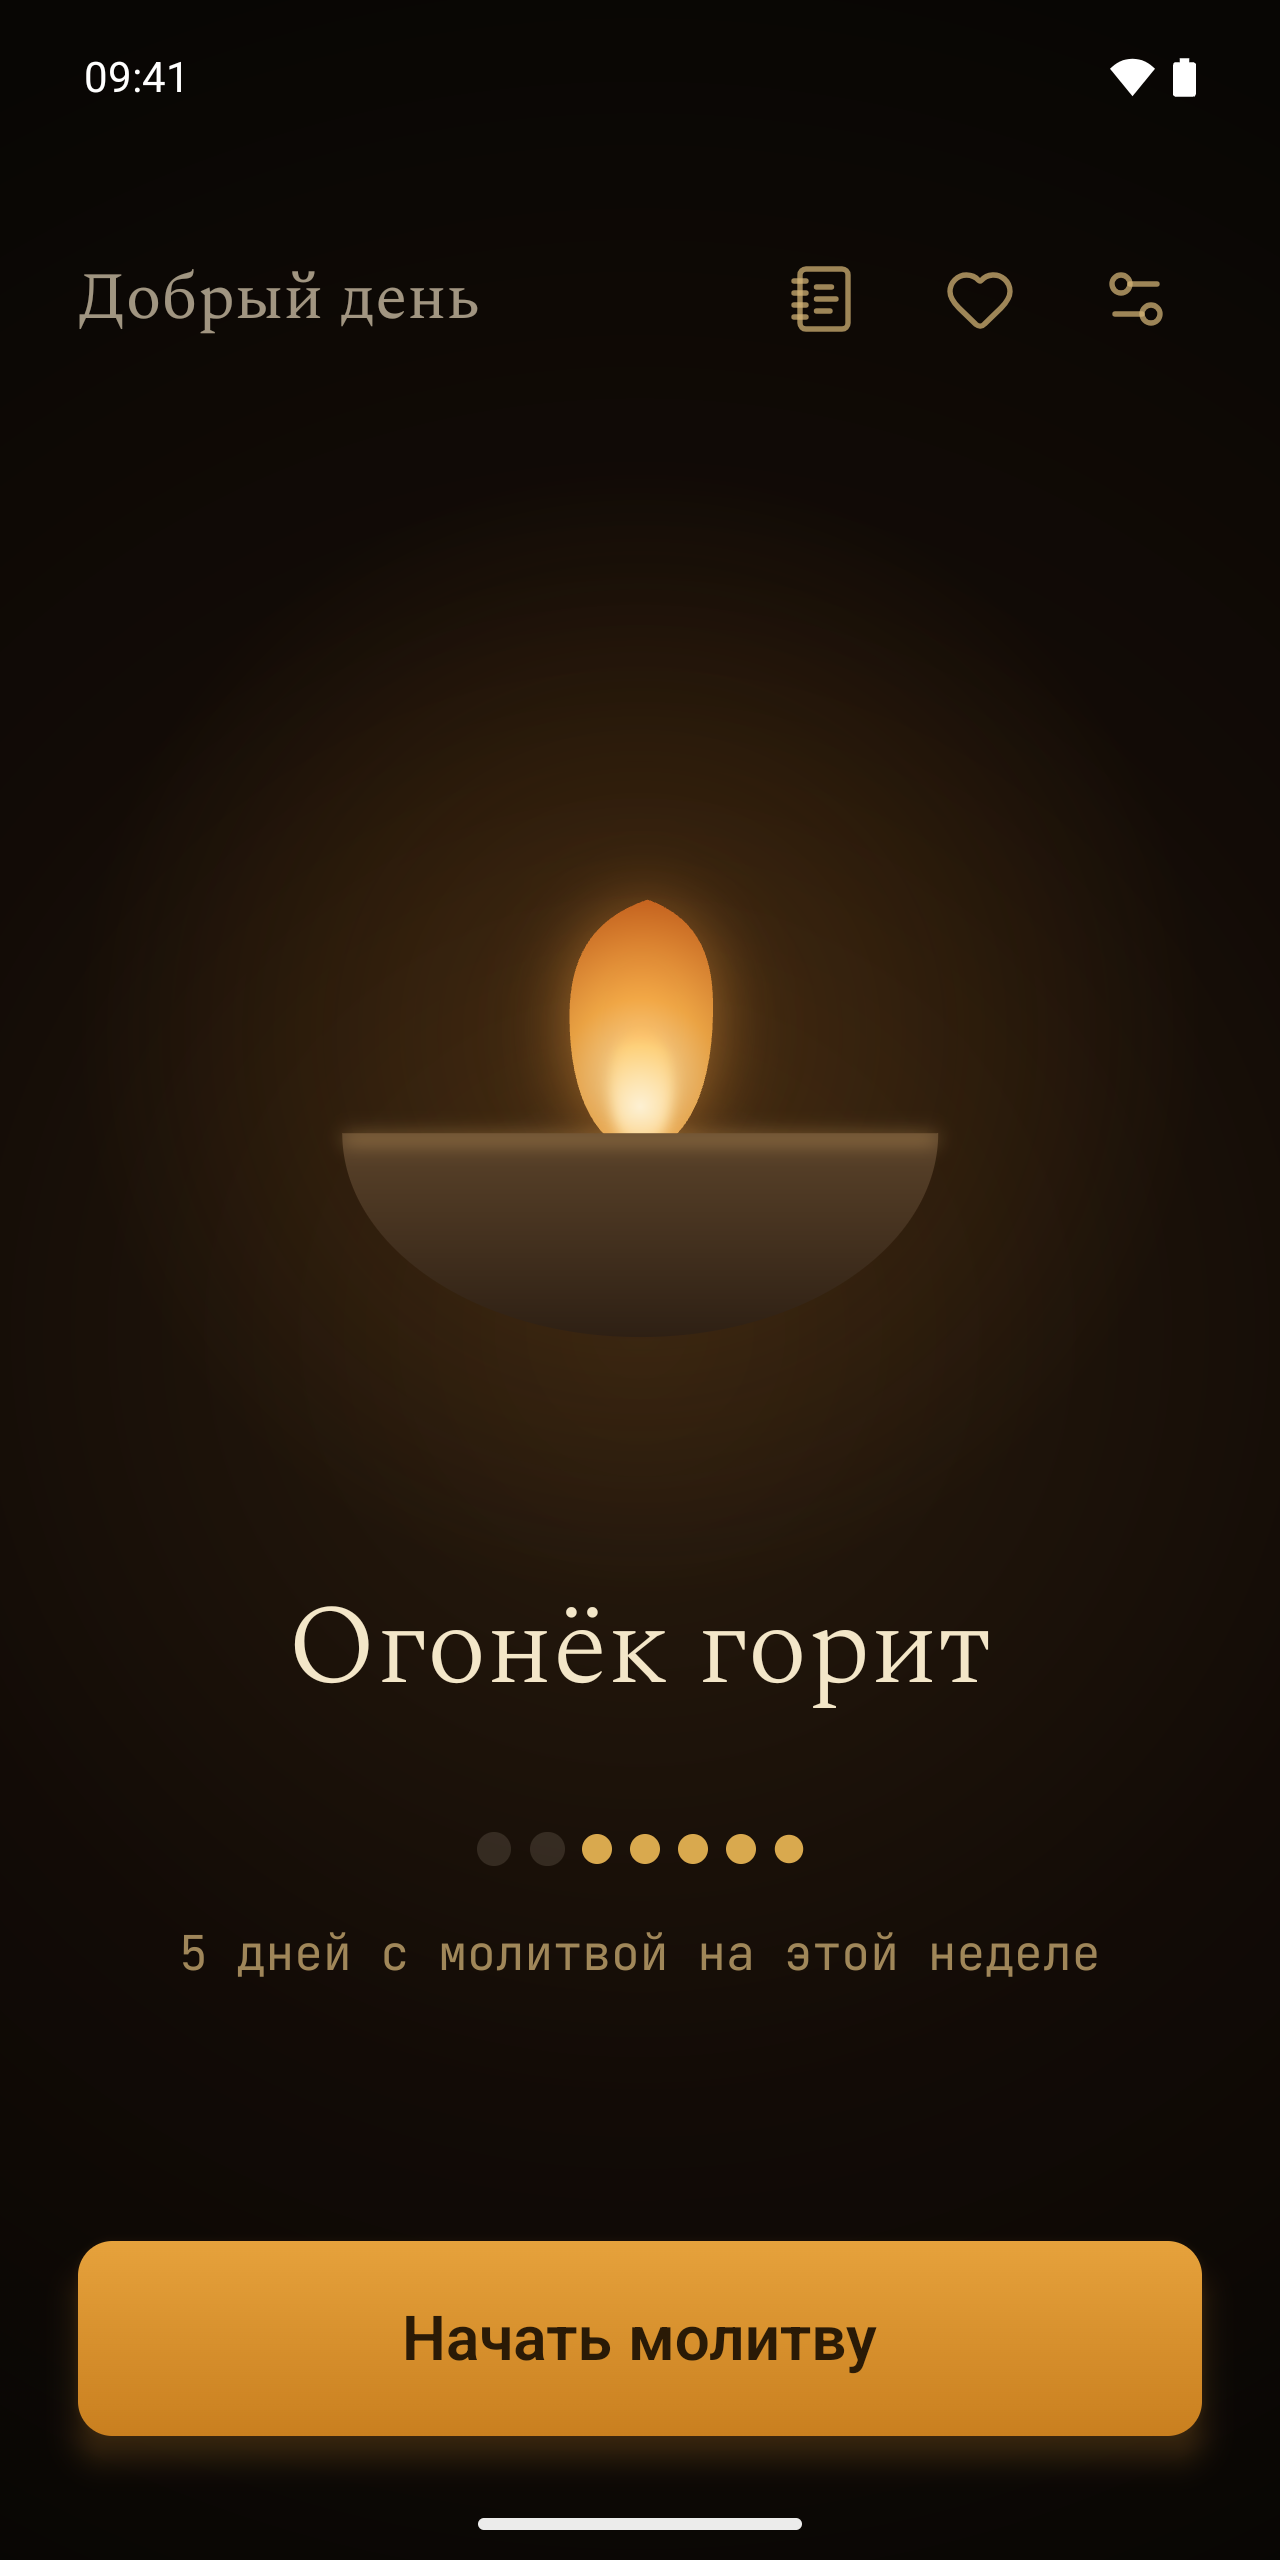
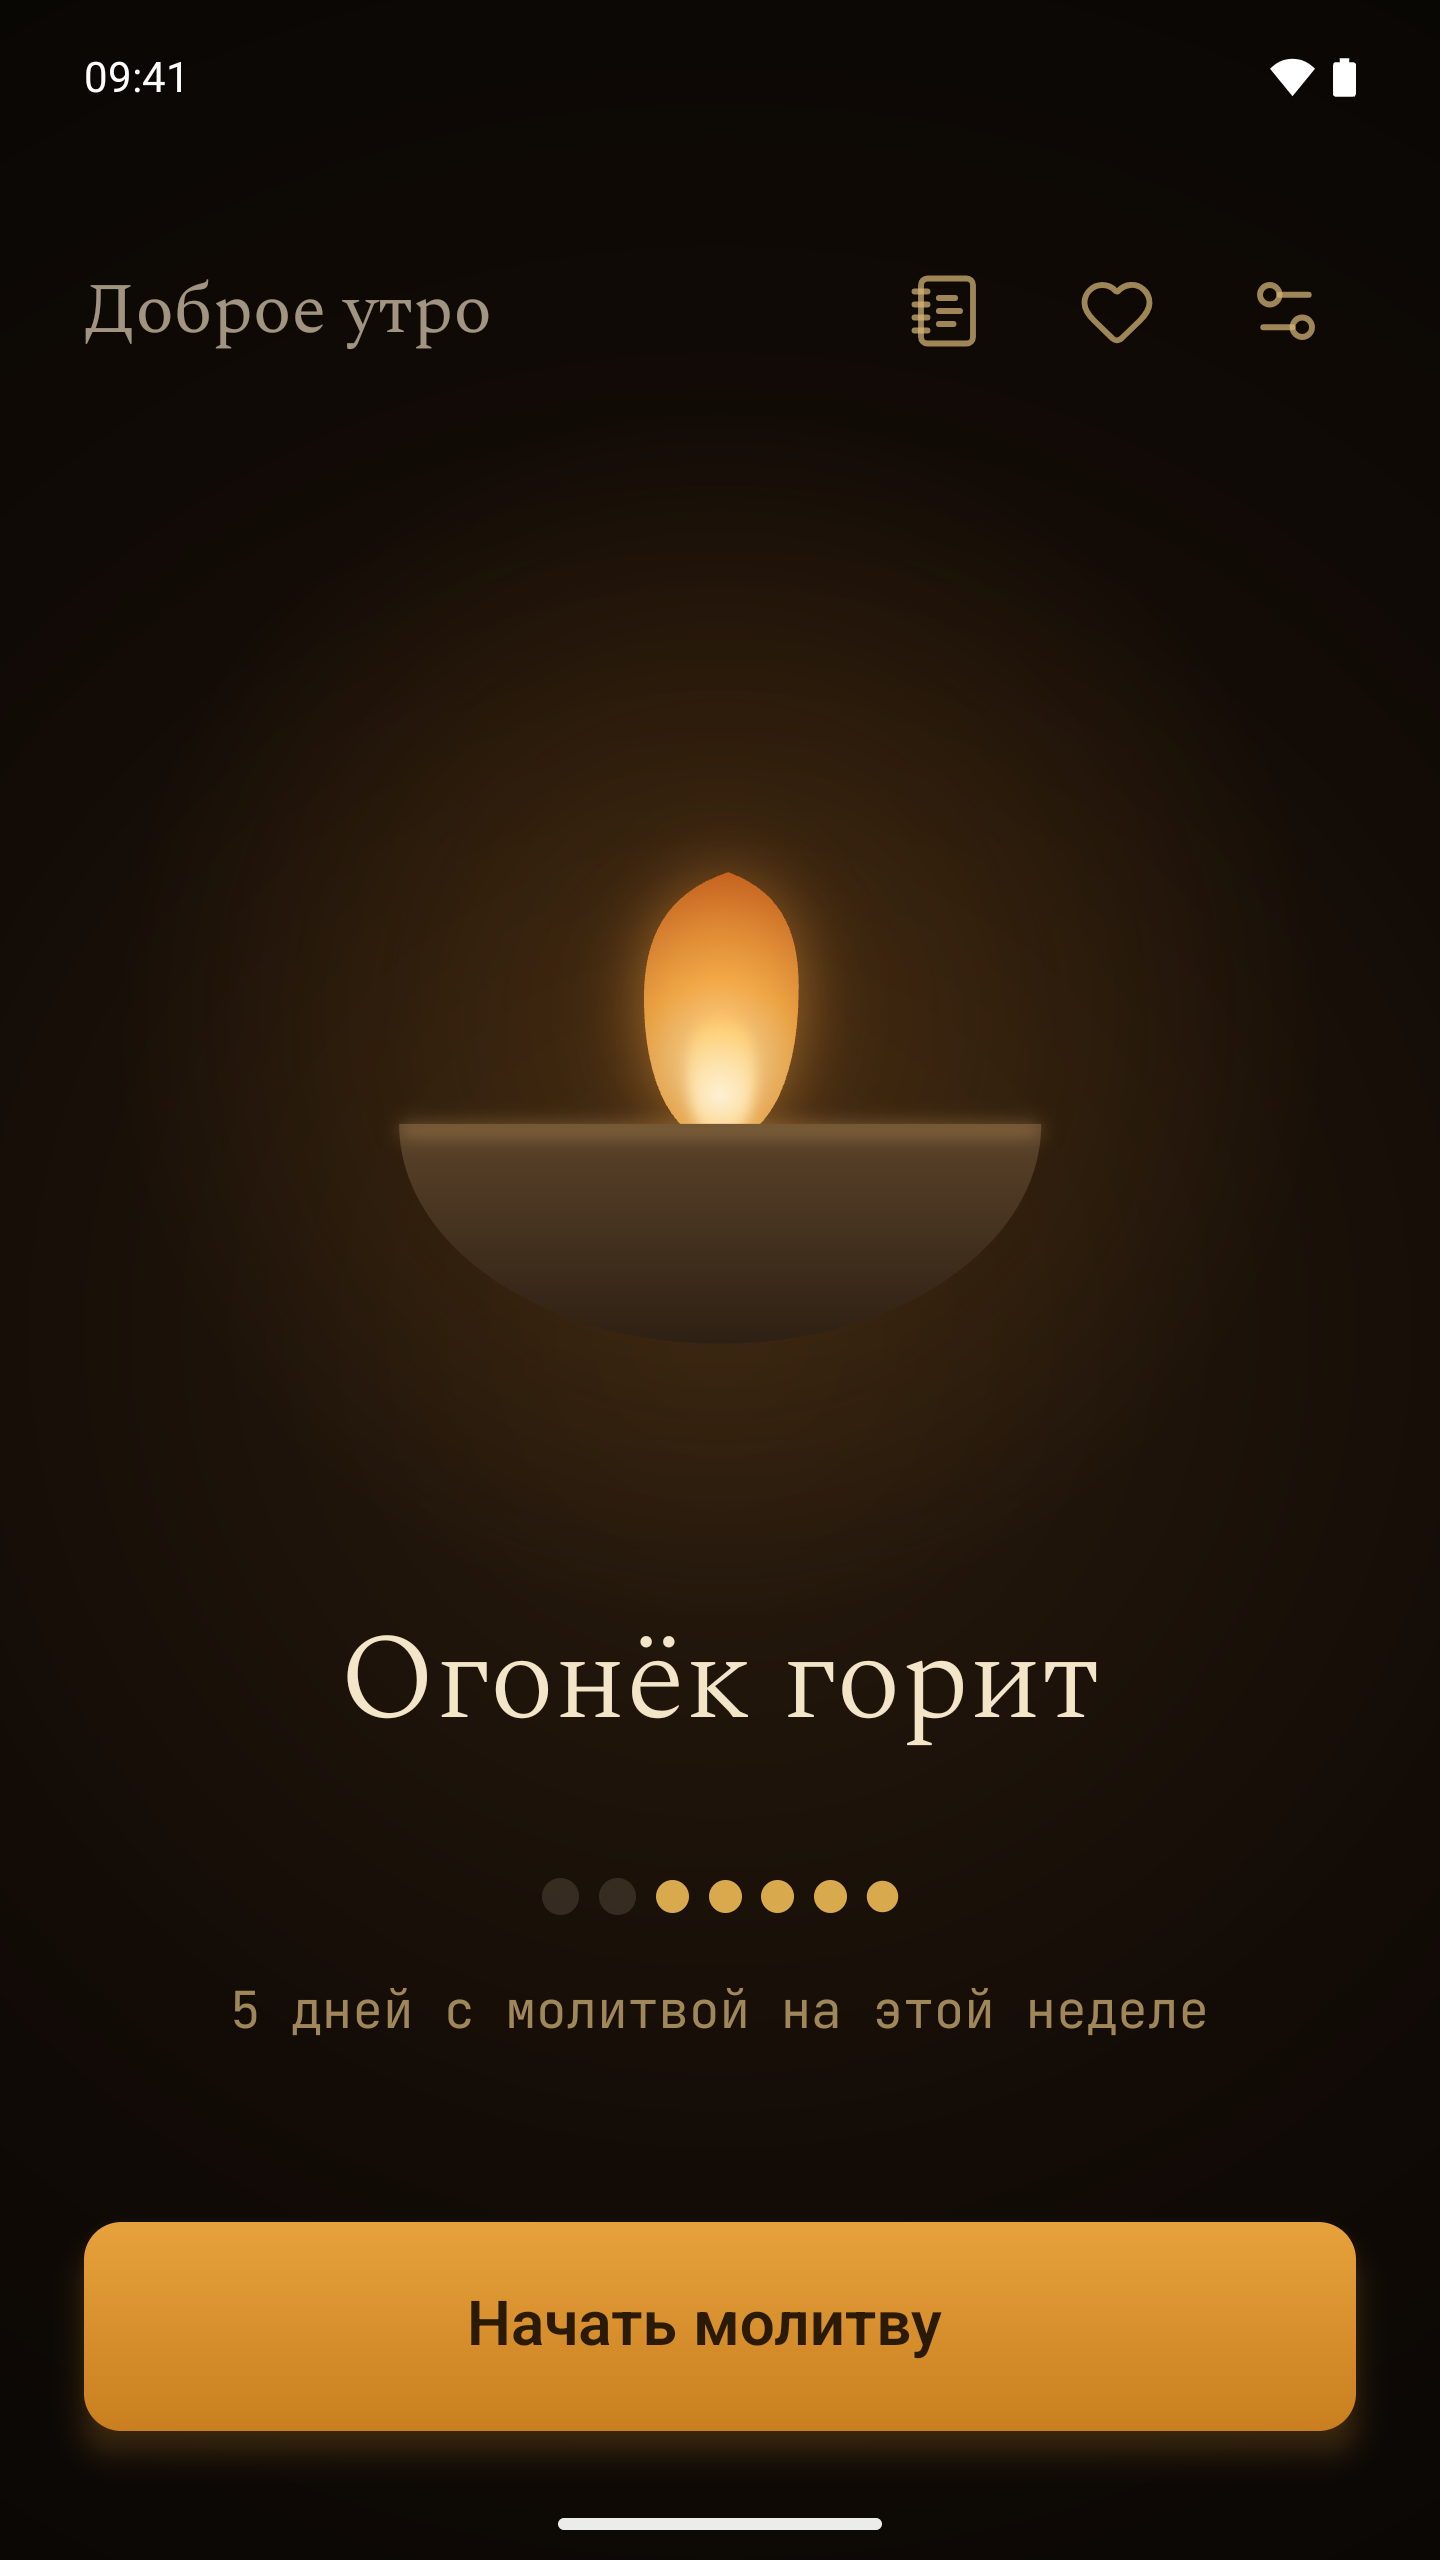
chore(store): capture 9:16 Play phone screenshots

diff --git a/store/README.md b/store/README.md
@@ -329,24 +329,37 @@ not suitable for the Play listing.
 
 ### Android screenshots
 
-The 24 Play phone images in `screenshots/android-phone-*.png` were captured on
-2026-10-12 at 1280×2560 for `ru`, `uk` and `en`. Their Play-only copy lives in
+Play accepts phone screenshots only at 16:9 or 9:16, each side 320–3840 px.
+The 24 `ru`, `uk` and `en` images in `screenshots/android-phone-*.png` were
+captured on 2026-10-14 at 1440×2560 (9:16), checked from each PNG header and
+visually reviewed against the approved scenes. Their Play-only copy lives in
 `screenshots/android-fixtures/`; the capture script builds a complete fixture
-from `video/demo-content.json`. `scripts/capture-play-screenshots.sh
-<ru|uk|en>` rebuilds a test-channel Release APK against the shared
-`scripts/appstore-video-mock.py`, seeds the signed test database, and runs
-`testing/screens/play-screens-{1,2}.yaml`. It writes eight PNGs and full logs
-to a printed temporary directory for review; it does not overwrite approved
-images. Do not run capture just to check the tooling.
+from `video/demo-content.json`. The prayer timer and saved duration vary with
+emulator speed; the screens and fixture content are the stable references.
+`scripts/capture-play-screenshots.sh <ru|uk|en>` uses a test-channel Release APK
+against the shared `scripts/appstore-video-mock.py`, seeds the signed test
+database, and runs `testing/screens/play-screens-{1,2}.yaml`. It writes eight
+PNGs and full logs to a printed temporary directory for review, fails if any
+PNG is not exactly 1440×2560, and does not overwrite approved images. Do not
+run capture just to check the tooling.
+
+Build the capture APK and signed database probe once with the script's mock
+build variables, then set `PLAY_CAPTURE_APK` and `PLAY_CAPTURE_PROBE_APK` to
+those files for all three language runs. Both paths are required together;
+without them the script builds both APKs. Gradle is stopped before capture.
+Run one language at a time and let the guest settle before each run.
 
 Use only `emulator-5554` running the `Pray_Pixel_API_35` AVD. Start it as in
 `testing/README.md` after `setopt NO_BG_NICE`; set
 `ANDROID_HOME=~/Library/Android/sdk` before invoking the script. The script
-sets `wm size 1280x2560`, demo mode (09:41, full battery and Wi-Fi), the local
-mock and screenshot seed. On exit it restores the prior display overrides,
-demo-mode setting, timezone, automatic-timezone setting and spell-checker setting,
-removes the mock app and probe, and stops the mock and Gradle. Shut down
-the emulator when finished. Never use a connected physical device.
+sets `wm size 1440x2560` and `wm density 480`, giving 480×853 dp: the same
+height as the approved 1280×2560 set with a slightly wider viewport. It also
+selects a timezone where the local hour is 08–11 to match the 09:41 demo clock,
+then sets demo mode (full battery and Wi-Fi), the local mock and screenshot
+seed. On exit it restores the prior display overrides, demo-mode setting,
+timezone, automatic-timezone setting and spell-checker setting, removes the
+mock app and probe, and stops the mock and Gradle. Shut down the emulator when
+finished. Never use a connected physical device.
 
 ### Closed testing
 
